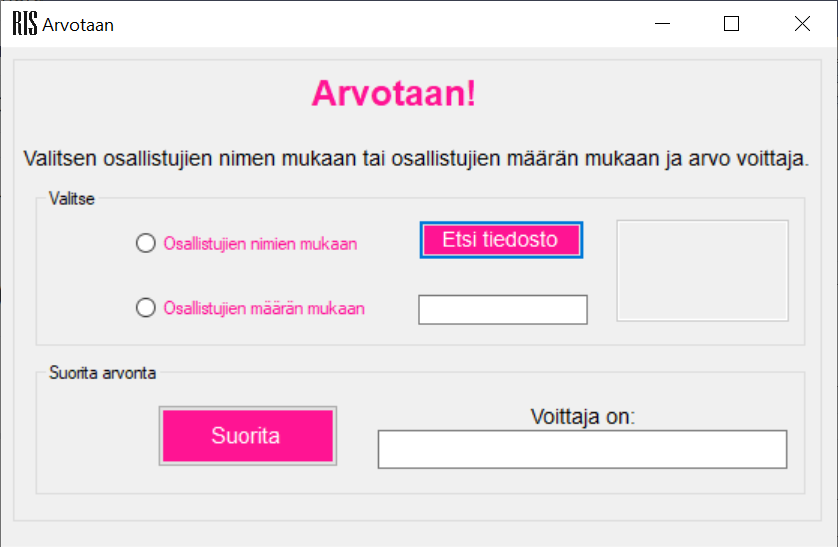
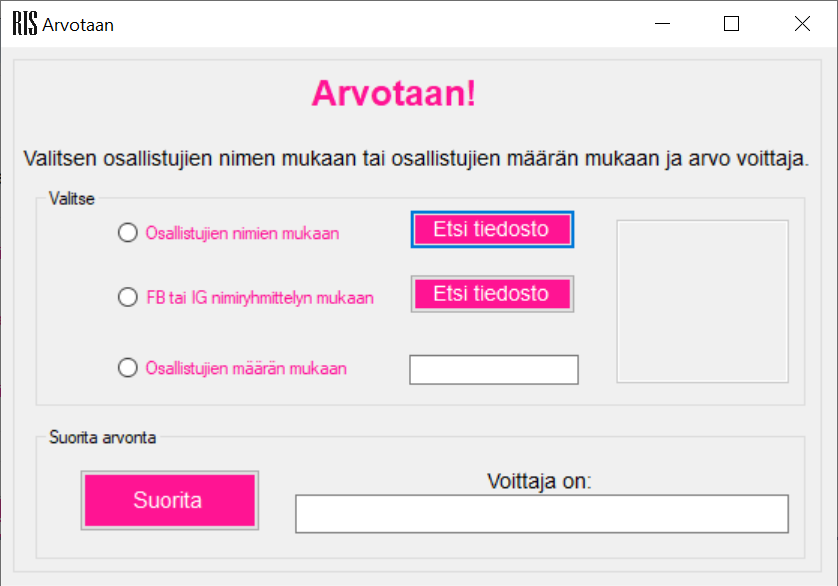
Ohjeistusta lisätty

diff --git a/Arvontakone/Form1.Designer.cs b/Arvontakone/Form1.Designer.cs
@@ -40,11 +40,6 @@ namespace Arvontakone
             this.textBox3 = new System.Windows.Forms.TextBox();
             this.label1 = new System.Windows.Forms.Label();
             this.groupBox1 = new System.Windows.Forms.GroupBox();
-            this.groupBox2 = new System.Windows.Forms.GroupBox();
-            this.radioButton3 = new System.Windows.Forms.RadioButton();
-            this.textBox4 = new System.Windows.Forms.TextBox();
-            this.radioButton4 = new System.Windows.Forms.RadioButton();
-            this.button3 = new System.Windows.Forms.Button();
             this.groupBox3 = new System.Windows.Forms.GroupBox();
             this.label2 = new System.Windows.Forms.Label();
             this.groupBox4 = new System.Windows.Forms.GroupBox();
@@ -54,8 +49,9 @@ namespace Arvontakone
             this.button5 = new System.Windows.Forms.Button();
             this.label3 = new System.Windows.Forms.Label();
             this.groupBox5 = new System.Windows.Forms.GroupBox();
+            this.radioButton3 = new System.Windows.Forms.RadioButton();
+            this.button3 = new System.Windows.Forms.Button();
             this.groupBox1.SuspendLayout();
-            this.groupBox2.SuspendLayout();
             this.groupBox3.SuspendLayout();
             this.groupBox4.SuspendLayout();
             this.groupBox5.SuspendLayout();
@@ -71,7 +67,7 @@ namespace Arvontakone
             this.textBox1.Location = new System.Drawing.Point(580, 32);
             this.textBox1.Multiline = true;
             this.textBox1.Name = "textBox1";
-            this.textBox1.Size = new System.Drawing.Size(170, 103);
+            this.textBox1.Size = new System.Drawing.Size(170, 165);
             this.textBox1.TabIndex = 0;
             // 
             // Button1
@@ -79,7 +75,7 @@ namespace Arvontakone
             this.Button1.BackColor = System.Drawing.Color.DeepPink;
             this.Button1.Font = new System.Drawing.Font("Arial", 10F, System.Drawing.FontStyle.Regular, System.Drawing.GraphicsUnit.Point, ((byte)(0)));
             this.Button1.ForeColor = System.Drawing.SystemColors.ControlLightLight;
-            this.Button1.Location = new System.Drawing.Point(383, 32);
+            this.Button1.Location = new System.Drawing.Point(374, 22);
             this.Button1.Name = "Button1";
             this.Button1.Size = new System.Drawing.Size(167, 42);
             this.Button1.TabIndex = 1;
@@ -91,7 +87,7 @@ namespace Arvontakone
             // 
             this.radioButton1.AutoSize = true;
             this.radioButton1.ForeColor = System.Drawing.Color.DeepPink;
-            this.radioButton1.Location = new System.Drawing.Point(101, 43);
+            this.radioButton1.Location = new System.Drawing.Point(83, 33);
             this.radioButton1.Name = "radioButton1";
             this.radioButton1.Size = new System.Drawing.Size(229, 24);
             this.radioButton1.TabIndex = 2;
@@ -103,7 +99,7 @@ namespace Arvontakone
             // 
             this.radioButton2.AutoSize = true;
             this.radioButton2.ForeColor = System.Drawing.Color.DeepPink;
-            this.radioButton2.Location = new System.Drawing.Point(101, 109);
+            this.radioButton2.Location = new System.Drawing.Point(83, 171);
             this.radioButton2.Name = "radioButton2";
             this.radioButton2.Size = new System.Drawing.Size(237, 24);
             this.radioButton2.TabIndex = 3;
@@ -113,7 +109,7 @@ namespace Arvontakone
             // 
             // textBox2
             // 
-            this.textBox2.Location = new System.Drawing.Point(383, 109);
+            this.textBox2.Location = new System.Drawing.Point(374, 171);
             this.textBox2.Name = "textBox2";
             this.textBox2.Size = new System.Drawing.Size(167, 26);
             this.textBox2.TabIndex = 4;
@@ -124,7 +120,7 @@ namespace Arvontakone
             this.Button2.BackColor = System.Drawing.Color.DeepPink;
             this.Button2.Font = new System.Drawing.Font("Arial", 11F, System.Drawing.FontStyle.Regular, System.Drawing.GraphicsUnit.Point, ((byte)(0)));
             this.Button2.ForeColor = System.Drawing.SystemColors.ControlLightLight;
-            this.Button2.Location = new System.Drawing.Point(121, 43);
+            this.Button2.Location = new System.Drawing.Point(43, 43);
             this.Button2.Name = "Button2";
             this.Button2.Size = new System.Drawing.Size(181, 64);
             this.Button2.TabIndex = 5;
@@ -136,10 +132,10 @@ namespace Arvontakone
             // 
             this.textBox3.Font = new System.Drawing.Font("Arial", 12F, System.Drawing.FontStyle.Bold, System.Drawing.GraphicsUnit.Point, ((byte)(0)));
             this.textBox3.ForeColor = System.Drawing.Color.DeepPink;
-            this.textBox3.Location = new System.Drawing.Point(342, 69);
+            this.textBox3.Location = new System.Drawing.Point(259, 69);
             this.textBox3.Multiline = true;
             this.textBox3.Name = "textBox3";
-            this.textBox3.Size = new System.Drawing.Size(408, 38);
+            this.textBox3.Size = new System.Drawing.Size(491, 38);
             this.textBox3.TabIndex = 6;
             this.textBox3.TextAlign = System.Windows.Forms.HorizontalAlignment.Center;
             // 
@@ -157,75 +153,19 @@ namespace Arvontakone
             // 
             // groupBox1
             // 
+            this.groupBox1.Controls.Add(this.button3);
+            this.groupBox1.Controls.Add(this.radioButton3);
             this.groupBox1.Controls.Add(this.radioButton2);
             this.groupBox1.Controls.Add(this.textBox2);
             this.groupBox1.Controls.Add(this.textBox1);
             this.groupBox1.Controls.Add(this.radioButton1);
             this.groupBox1.Controls.Add(this.Button1);
-            this.groupBox1.Controls.Add(this.groupBox2);
             this.groupBox1.Location = new System.Drawing.Point(23, 142);
             this.groupBox1.Name = "groupBox1";
-            this.groupBox1.Size = new System.Drawing.Size(770, 163);
+            this.groupBox1.Size = new System.Drawing.Size(770, 225);
             this.groupBox1.TabIndex = 8;
             this.groupBox1.TabStop = false;
             this.groupBox1.Text = "Valitse";
-            // 
-            // groupBox2
-            // 
-            this.groupBox2.Controls.Add(this.radioButton3);
-            this.groupBox2.Controls.Add(this.textBox4);
-            this.groupBox2.Controls.Add(this.radioButton4);
-            this.groupBox2.Controls.Add(this.button3);
-            this.groupBox2.Location = new System.Drawing.Point(0, 191);
-            this.groupBox2.Name = "groupBox2";
-            this.groupBox2.Size = new System.Drawing.Size(776, 114);
-            this.groupBox2.TabIndex = 9;
-            this.groupBox2.TabStop = false;
-            this.groupBox2.Text = "Suorita arvonta";
-            // 
-            // radioButton3
-            // 
-            this.radioButton3.AutoSize = true;
-            this.radioButton3.ForeColor = System.Drawing.Color.DeepPink;
-            this.radioButton3.Location = new System.Drawing.Point(23, 111);
-            this.radioButton3.Name = "radioButton3";
-            this.radioButton3.Size = new System.Drawing.Size(237, 24);
-            this.radioButton3.TabIndex = 3;
-            this.radioButton3.TabStop = true;
-            this.radioButton3.Text = "Osallistujien määrän mukaan";
-            this.radioButton3.UseVisualStyleBackColor = true;
-            // 
-            // textBox4
-            // 
-            this.textBox4.Location = new System.Drawing.Point(285, 111);
-            this.textBox4.Name = "textBox4";
-            this.textBox4.Size = new System.Drawing.Size(167, 26);
-            this.textBox4.TabIndex = 4;
-            this.textBox4.TextAlign = System.Windows.Forms.HorizontalAlignment.Center;
-            // 
-            // radioButton4
-            // 
-            this.radioButton4.AutoSize = true;
-            this.radioButton4.ForeColor = System.Drawing.Color.DeepPink;
-            this.radioButton4.Location = new System.Drawing.Point(23, 53);
-            this.radioButton4.Name = "radioButton4";
-            this.radioButton4.Size = new System.Drawing.Size(226, 24);
-            this.radioButton4.TabIndex = 2;
-            this.radioButton4.TabStop = true;
-            this.radioButton4.Text = "Osallistujien nimen mukaan";
-            this.radioButton4.UseVisualStyleBackColor = true;
-            // 
-            // button3
-            // 
-            this.button3.BackColor = System.Drawing.Color.DeepPink;
-            this.button3.Font = new System.Drawing.Font("Arial", 10F, System.Drawing.FontStyle.Regular, System.Drawing.GraphicsUnit.Point, ((byte)(0)));
-            this.button3.ForeColor = System.Drawing.SystemColors.ControlLightLight;
-            this.button3.Location = new System.Drawing.Point(285, 45);
-            this.button3.Name = "button3";
-            this.button3.Size = new System.Drawing.Size(167, 36);
-            this.button3.TabIndex = 1;
-            this.button3.Text = "Etsi tiedosto";
-            this.button3.UseVisualStyleBackColor = false;
             // 
             // groupBox3
             // 
@@ -233,7 +173,7 @@ namespace Arvontakone
             this.groupBox3.Controls.Add(this.groupBox4);
             this.groupBox3.Controls.Add(this.textBox3);
             this.groupBox3.Controls.Add(this.Button2);
-            this.groupBox3.Location = new System.Drawing.Point(23, 320);
+            this.groupBox3.Location = new System.Drawing.Point(23, 386);
             this.groupBox3.Name = "groupBox3";
             this.groupBox3.Size = new System.Drawing.Size(770, 137);
             this.groupBox3.TabIndex = 9;
@@ -244,7 +184,7 @@ namespace Arvontakone
             // 
             this.label2.AutoSize = true;
             this.label2.Font = new System.Drawing.Font("Arial", 10F, System.Drawing.FontStyle.Regular, System.Drawing.GraphicsUnit.Point, ((byte)(0)));
-            this.label2.Location = new System.Drawing.Point(491, 43);
+            this.label2.Location = new System.Drawing.Point(447, 43);
             this.label2.Name = "label2";
             this.label2.Size = new System.Drawing.Size(108, 23);
             this.label2.TabIndex = 10;
@@ -327,16 +267,41 @@ namespace Arvontakone
             this.groupBox5.Controls.Add(this.groupBox3);
             this.groupBox5.Location = new System.Drawing.Point(12, 3);
             this.groupBox5.Name = "groupBox5";
-            this.groupBox5.Size = new System.Drawing.Size(809, 485);
+            this.groupBox5.Size = new System.Drawing.Size(809, 537);
             this.groupBox5.TabIndex = 11;
             this.groupBox5.TabStop = false;
+            // 
+            // radioButton3
+            // 
+            this.radioButton3.AutoSize = true;
+            this.radioButton3.ForeColor = System.Drawing.Color.DeepPink;
+            this.radioButton3.Location = new System.Drawing.Point(83, 99);
+            this.radioButton3.Name = "radioButton3";
+            this.radioButton3.Size = new System.Drawing.Size(266, 24);
+            this.radioButton3.TabIndex = 5;
+            this.radioButton3.TabStop = true;
+            this.radioButton3.Text = "FB tai IG nimiryhmittelyn mukaan";
+            this.radioButton3.UseVisualStyleBackColor = true;
+            // 
+            // button3
+            // 
+            this.button3.BackColor = System.Drawing.Color.DeepPink;
+            this.button3.Font = new System.Drawing.Font("Arial", 10F, System.Drawing.FontStyle.Regular, System.Drawing.GraphicsUnit.Point, ((byte)(0)));
+            this.button3.ForeColor = System.Drawing.SystemColors.ControlLightLight;
+            this.button3.Location = new System.Drawing.Point(374, 88);
+            this.button3.Name = "button3";
+            this.button3.Size = new System.Drawing.Size(167, 42);
+            this.button3.TabIndex = 6;
+            this.button3.Text = "Etsi tiedosto";
+            this.button3.UseVisualStyleBackColor = false;
+            this.button3.Click += new System.EventHandler(this.button3_Click);
             // 
             // Form1
             // 
             this.AutoScaleDimensions = new System.Drawing.SizeF(9F, 20F);
             this.AutoScaleMode = System.Windows.Forms.AutoScaleMode.Font;
             this.BackColor = System.Drawing.SystemColors.Menu;
-            this.ClientSize = new System.Drawing.Size(836, 512);
+            this.ClientSize = new System.Drawing.Size(836, 552);
             this.Controls.Add(this.groupBox5);
             this.ForeColor = System.Drawing.SystemColors.ActiveCaptionText;
             this.Icon = ((System.Drawing.Icon)(resources.GetObject("$this.Icon")));
@@ -344,8 +309,6 @@ namespace Arvontakone
             this.Text = "Arvotaan";
             this.groupBox1.ResumeLayout(false);
             this.groupBox1.PerformLayout();
-            this.groupBox2.ResumeLayout(false);
-            this.groupBox2.PerformLayout();
             this.groupBox3.ResumeLayout(false);
             this.groupBox3.PerformLayout();
             this.groupBox4.ResumeLayout(false);
@@ -368,11 +331,6 @@ namespace Arvontakone
         private System.Windows.Forms.TextBox textBox3;
         private System.Windows.Forms.Label label1;
         private System.Windows.Forms.GroupBox groupBox1;
-        private System.Windows.Forms.GroupBox groupBox2;
-        private System.Windows.Forms.RadioButton radioButton3;
-        private System.Windows.Forms.TextBox textBox4;
-        private System.Windows.Forms.RadioButton radioButton4;
-        private System.Windows.Forms.Button button3;
         private System.Windows.Forms.GroupBox groupBox3;
         private System.Windows.Forms.Label label2;
         private System.Windows.Forms.GroupBox groupBox4;
@@ -382,6 +340,8 @@ namespace Arvontakone
         private System.Windows.Forms.Button button5;
         private System.Windows.Forms.Label label3;
         private System.Windows.Forms.GroupBox groupBox5;
+        private System.Windows.Forms.Button button3;
+        private System.Windows.Forms.RadioButton radioButton3;
     }
 }
 

diff --git a/Arvontakone/Form1.cs b/Arvontakone/Form1.cs
@@ -51,13 +51,30 @@ namespace Arvontakone
                 }
             }
 
-            else if (radioButton1.Checked)
+            if (radioButton3.Checked)
+            {
+                string list = textBox1.Text;
+                string[] vinName = list.Trim().Split(new string[] { "\r\n\r\n" },
+                    StringSplitOptions.RemoveEmptyEntries);
+                textBox3.Text = vinName[new Random().Next(0, vinName.Length)];
+            }
+
+            if (radioButton1.Checked)
             {
                 string list = textBox1.Text;
                 string[] vinName = list.Trim().Split('\n');
                 textBox3.Text = vinName[new Random().Next(0, vinName.Length)];
             }
-        }   
+        }
+
+        private void button3_Click(object sender, EventArgs e)
+        {
+            Ofd.Filter = "*TXT|*.txt";
+            if (Ofd.ShowDialog() == DialogResult.OK)
+            {
+                textBox1.Text = System.IO.File.ReadAllText(Ofd.FileName);
+            }
+        }
     }
 }
 
